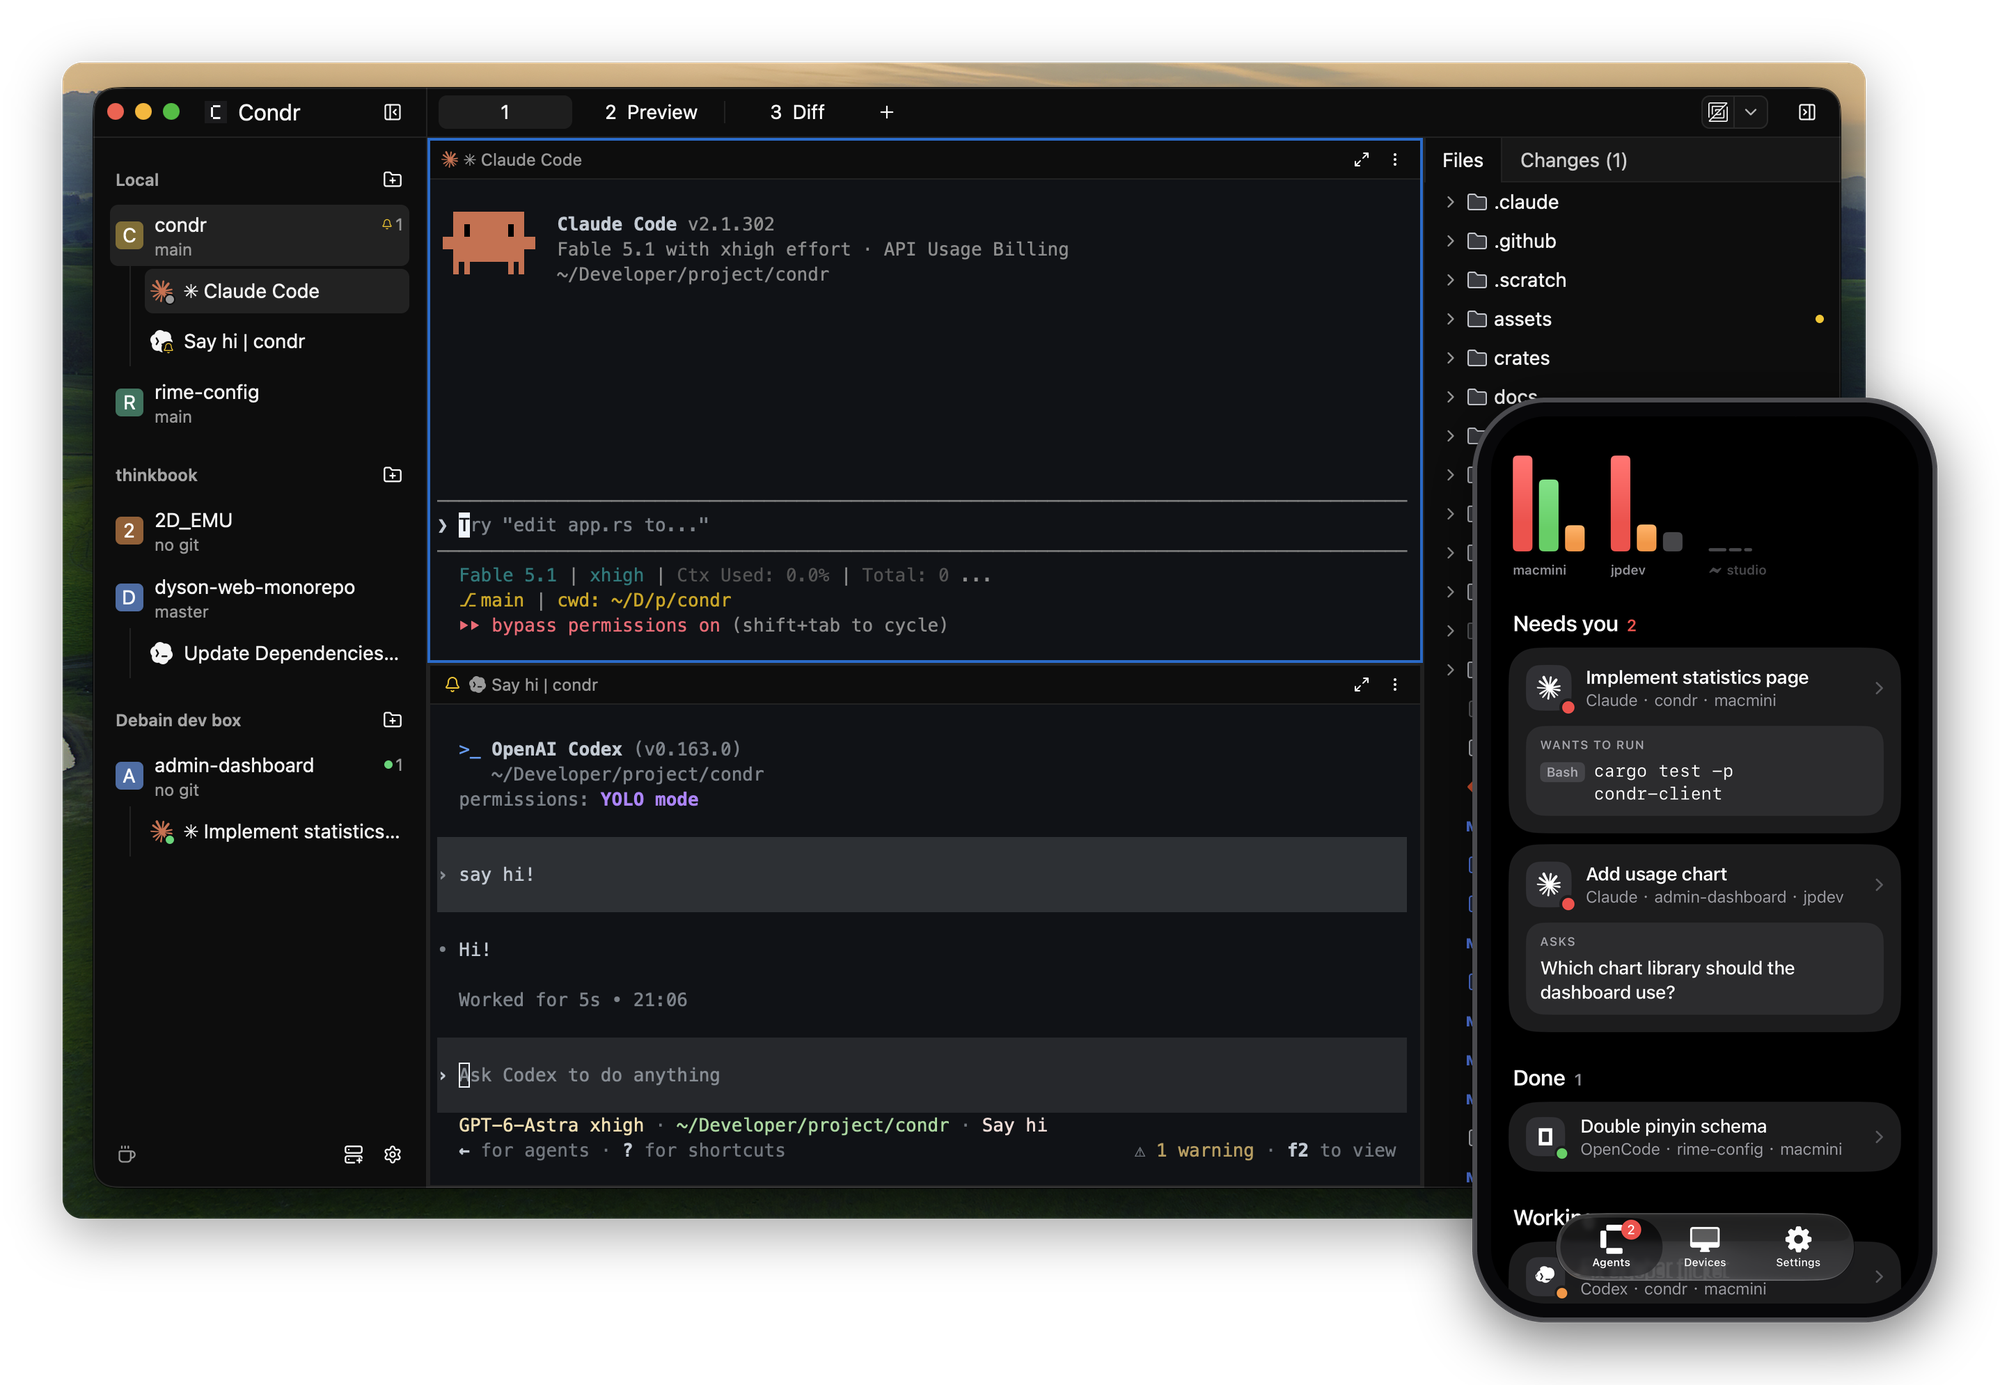
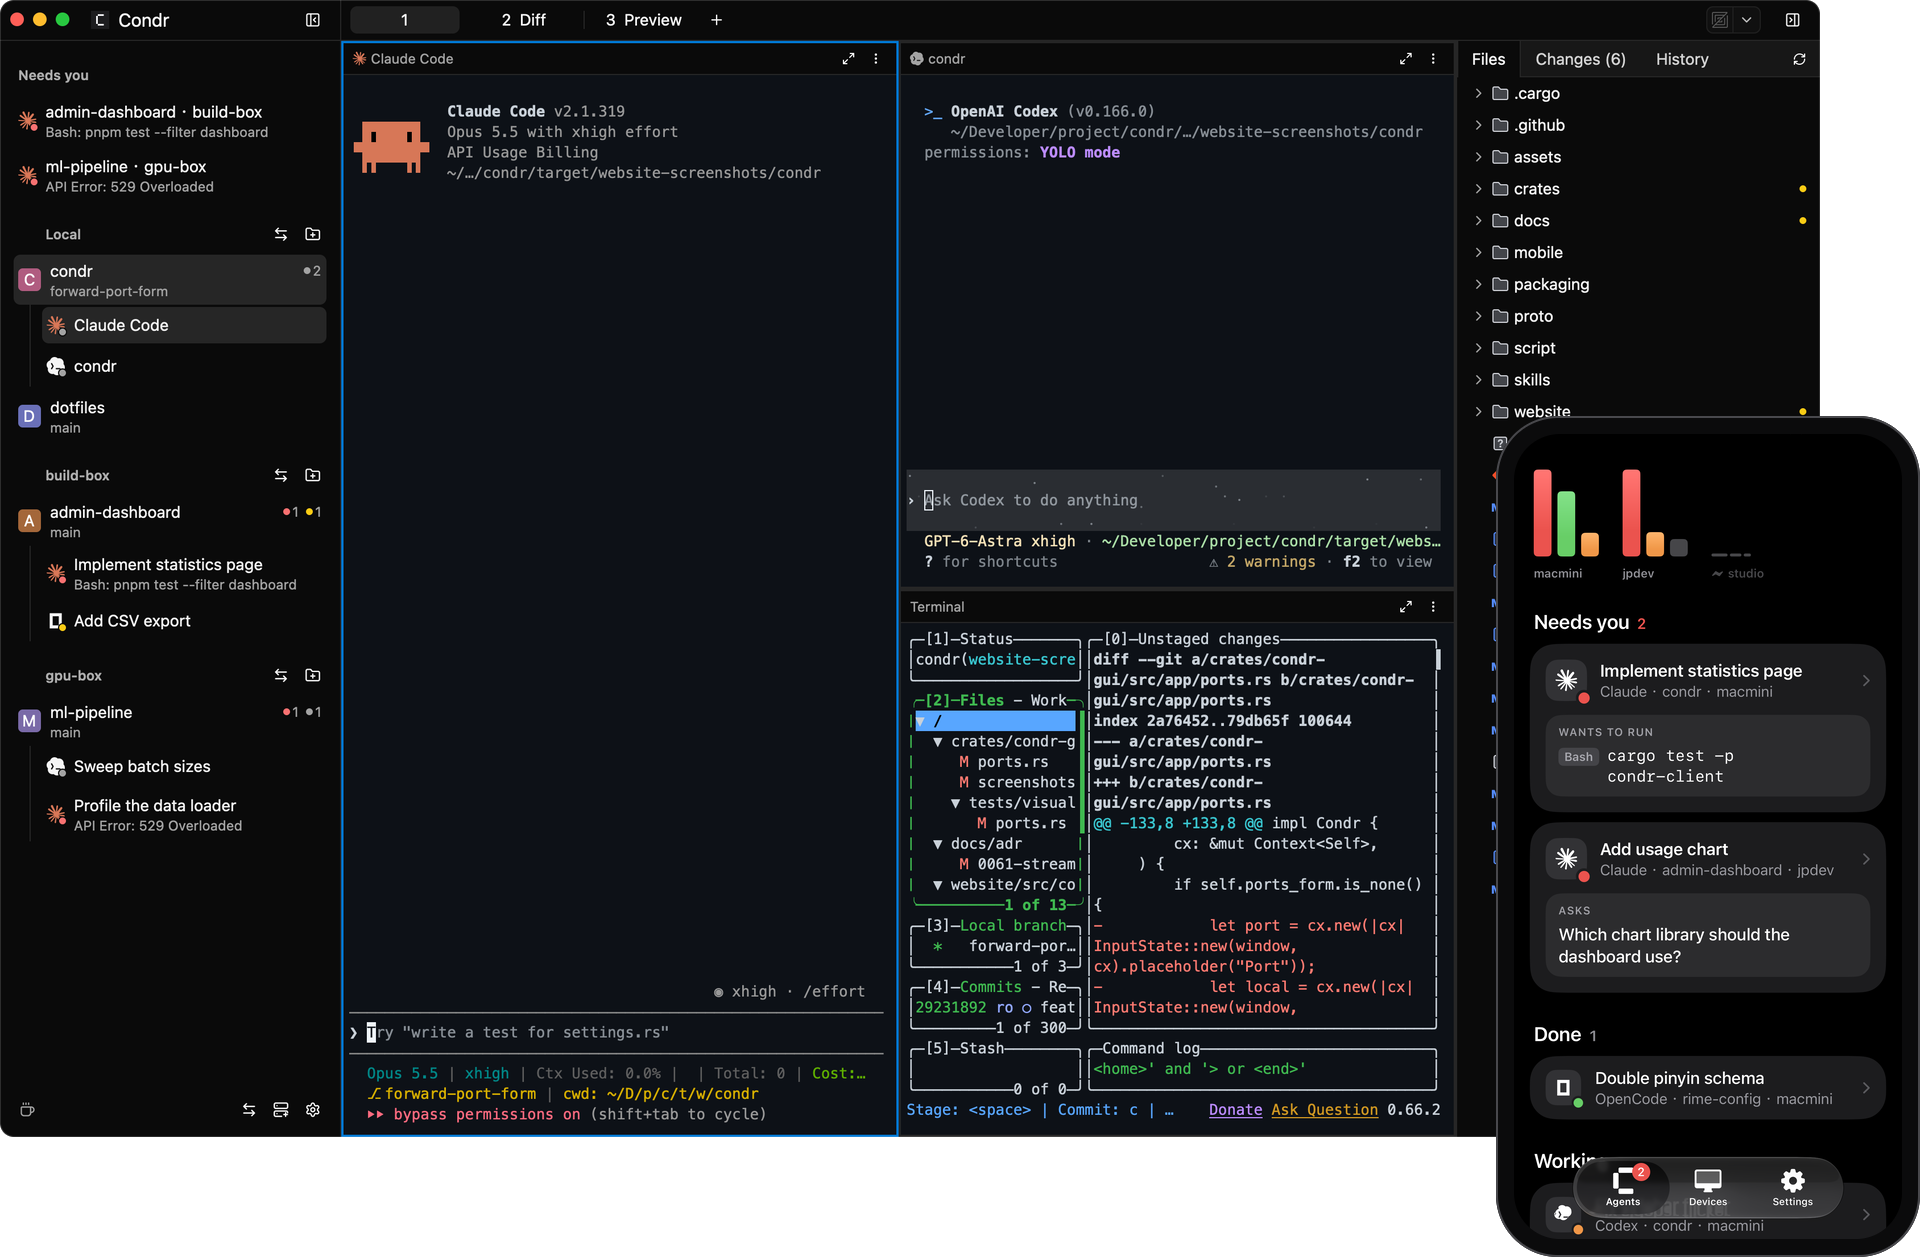
test: the website's screenshots add the hero, in a 1600 by 1000 window of its own, and the README's picture with the Companion in front of it
The offscreen window cannot be resized without AppKit's run loop, and a
Server sizes a terminal for one client, so the hero opens once the
1280 by 800 window is gone. macOS's window buttons are painted where
Kit's title bar leaves room for them. Needs you is cropped to the end of
build-box.

diff --git a/crates/condr-gui/src/app/screenshots/website.rs b/crates/condr-gui/src/app/screenshots/website.rs
@@ -9,7 +9,9 @@
 //! Claude Code, Codex and lazygit run in its Panes, so all three must be installed and the
 //! first two must trust this repository. Two more Servers on loopback stand in for remote
 //! Devices; the Agents listed on them and the transfers in flight are staged. Each picture
-//! is a crop of the 1280 by 800 window, at the display's scale.
+//! is a crop of the 1280 by 800 window, at the display's scale. The hero is the whole window
+//! grown to 1600 by 1000, with the buttons macOS would draw painted in; the README's picture
+//! puts the Companion's `phone-agents.png` in front of it.
 
 use super::super::changes::SidebarView;
 use super::super::history::DiffCommit;
@@ -26,6 +28,8 @@ use std::process::Command;
 
 /// The left sidebar's width, wide enough for an Agent's task and what it waits for.
 const SIDEBAR: f32 = 300.;
+/// The hero's window, in points.
+const HERO: (f32, f32) = (1600., 1000.);
 
 /// The commit whose change the worktree holds uncommitted: a small one to the Ports page.
 const DEMO: &str = "bd89134";
@@ -78,7 +82,7 @@ pub(crate) fn run(directory: PathBuf) {
 
     // This machine: the worktree, with three programs side by side in its first Tab.
     let mut admin = local.admin();
-    let (condr, claude, _) = workspace(&mut admin, &worktree);
+    let (condr, claude, condr_tab) = workspace(&mut admin, &worktree);
     let codex = split(&mut admin, claude, SplitDirection::Horizontal);
     let lazygit = split(&mut admin, codex, SplitDirection::Vertical);
     // Run from inside Claude Code, the Panes inherit its session, which Claude Code there
@@ -144,57 +148,8 @@ pub(crate) fn run(directory: PathBuf) {
         ),
     ];
 
-    let mut config = config::LoadedConfig::read(None);
-    config.appearance = Appearance::Dark;
-    let initial = ClientConnection::connect(&local.endpoint, "condr-screenshots");
-    let holder: Rc<RefCell<Option<Entity<Condr>>>> = Rc::default();
-    let window = {
-        let holder = Rc::clone(&holder);
-        let endpoint = local.endpoint.clone();
-        cx.open_offscreen_window(size(px(1280.), px(800.)), move |window, cx| {
-            let view = cx.new(|cx| {
-                Condr::new(
-                    endpoint,
-                    Some(initial.map_err(|error| error.to_string())),
-                    config,
-                    gui_state::LoadedState {
-                        state: gui_state::GuiState {
-                            sidebar_width: Some(SIDEBAR),
-                            ..Default::default()
-                        },
-                        ..Default::default()
-                    },
-                    window,
-                    cx,
-                )
-            });
-            holder.borrow_mut().replace(view.clone());
-            cx.new(|cx| Root::new(view, window, cx))
-        })
-        .expect("an offscreen window opens")
-    };
-    let window: AnyWindowHandle = window.into();
-    let view = holder.borrow_mut().take().expect("Condr was built");
-    update(&mut cx, window, &view, |this, _, _| {
-        for (name, server) in [("build-box", &build_box), ("gpu-box", &gpu_box)] {
-            let key = this.next_connection_key;
-            this.next_connection_key += 1;
-            this.connections.push(ServerConnection::new(
-                key,
-                name.into(),
-                server.endpoint.clone(),
-            ));
-            this.start_connect(key);
-        }
-    });
-    wait(&mut cx, "every Device synchronized", |app| {
-        (1..=3).all(|key| {
-            view.read(app)
-                .connection(key)
-                .and_then(ServerConnection::session)
-                .is_some_and(|session| !session.workspaces().is_empty())
-        })
-    });
+    let devices = [&local, &build_box, &gpu_box];
+    let (window, view) = open(&mut cx, (1280., 800.), devices);
     update(&mut cx, window, &view, |this, window, cx| {
         this.select_workspace(1, condr, window, cx)
     });
@@ -204,7 +159,8 @@ pub(crate) fn run(directory: PathBuf) {
 
     stage(&mut cx, window, &view, &staged);
     let image = capture(&mut cx, window);
-    save(&image, &directory, "needs-you", (0., 0., SIDEBAR, 800.));
+    // Down to the end of build-box: Needs you and the Devices it names, not the whole column.
+    save(&image, &directory, "needs-you", (0., 0., SIDEBAR, 578.));
     save(
         &image,
         &directory,
@@ -284,6 +240,7 @@ pub(crate) fn run(directory: PathBuf) {
     });
     let image = capture(&mut cx, window);
     save(&image, &directory, "history", review);
+
     update(&mut cx, window, &view, |this, window, cx| {
         this.toggle_sidebar(window, cx)
     });
@@ -387,6 +344,30 @@ pub(crate) fn run(directory: PathBuf) {
         "transfers",
         (1280. - 320., 36., 320., 764.),
     );
+
+    // The hero: the whole window, larger so the Panes between the sidebars have room. It is a
+    // window of its own, opened once this one is gone: a Server sizes a terminal for one client.
+    let _ = cx.update_window(window, |_, window, _| window.remove_window());
+    let (window, view) = open(&mut cx, HERO, devices);
+    update(&mut cx, window, &view, |this, window, cx| {
+        this.select_workspace(1, condr, window, cx);
+        this.show_view(1, condr, Some(condr_tab));
+        this.toggle_changes_sidebar(cx);
+        this.files_view
+            .sidebar_views
+            .insert((1, condr), SidebarView::Files);
+        this.rebuild_dock(window, cx);
+    });
+    settle(&mut cx);
+    stage(&mut cx, window, &view, &staged);
+    let mut hero = capture(&mut cx, window);
+    let scale = hero.width() as f32 / HERO.0;
+    traffic_lights(&mut hero, scale);
+    save_whole(&hero, &directory, "hero");
+    let phone = image::open(repository.join("assets/screenshots/phone-agents.png"))
+        .expect("the Companion's Agents page is in assets/screenshots")
+        .to_rgba8();
+    save_whole(&with_phone(&hero, &phone), &directory, "hero-with-phone");
 
     let _ = cx.update_window(window, |_, window, _| window.remove_window());
     for server in [local, build_box, gpu_box] {
@@ -541,6 +522,184 @@ fn stage(
             cx.notify();
         });
     }
+}
+
+/// An offscreen window of `(width, height)` points showing Condr connected to this machine's
+/// Server and to the two standing in for remote Devices, once all three are synchronized.
+fn open(
+    cx: &mut VisualTestAppContext,
+    (width, height): (f32, f32),
+    [local, build_box, gpu_box]: [&Running; 3],
+) -> (AnyWindowHandle, Entity<Condr>) {
+    let mut config = config::LoadedConfig::read(None);
+    config.appearance = Appearance::Dark;
+    let initial = ClientConnection::connect(&local.endpoint, "condr-screenshots");
+    let holder: Rc<RefCell<Option<Entity<Condr>>>> = Rc::default();
+    let window = {
+        let holder = Rc::clone(&holder);
+        let endpoint = local.endpoint.clone();
+        cx.open_offscreen_window(size(px(width), px(height)), move |window, cx| {
+            let view = cx.new(|cx| {
+                Condr::new(
+                    endpoint,
+                    Some(initial.map_err(|error| error.to_string())),
+                    config,
+                    gui_state::LoadedState {
+                        state: gui_state::GuiState {
+                            sidebar_width: Some(SIDEBAR),
+                            ..Default::default()
+                        },
+                        ..Default::default()
+                    },
+                    window,
+                    cx,
+                )
+            });
+            holder.borrow_mut().replace(view.clone());
+            cx.new(|cx| Root::new(view, window, cx))
+        })
+        .expect("an offscreen window opens")
+    };
+    let window: AnyWindowHandle = window.into();
+    let view = holder.borrow_mut().take().expect("Condr was built");
+    update(cx, window, &view, |this, _, _| {
+        for (name, server) in [("build-box", build_box), ("gpu-box", gpu_box)] {
+            let key = this.next_connection_key;
+            this.next_connection_key += 1;
+            this.connections.push(ServerConnection::new(
+                key,
+                name.into(),
+                server.endpoint.clone(),
+            ));
+            this.start_connect(key);
+        }
+    });
+    wait(cx, "every Device synchronized", |app| {
+        (1..=3).all(|key| {
+            view.read(app)
+                .connection(key)
+                .and_then(ServerConnection::session)
+                .is_some_and(|session| !session.workspaces().is_empty())
+        })
+    });
+    (window, view)
+}
+
+/// Gives the programs in the Panes time to redraw at the size the window gave them.
+fn settle(cx: &mut VisualTestAppContext) {
+    let until = Instant::now() + Duration::from_millis(1500);
+    while Instant::now() < until {
+        cx.run_until_parked();
+        std::thread::sleep(Duration::from_millis(50));
+    }
+}
+
+/// macOS draws a window's close, minimize and zoom buttons itself, so an offscreen window has
+/// none. Paints them where Kit's title bar leaves room for them: 12 points across, 20 apart,
+/// centred on its 34-point height. `scale` is pixels per point.
+fn traffic_lights(image: &mut RgbaImage, scale: f32) {
+    let radius = 6. * scale;
+    for (i, color) in [[255., 95., 87.], [254., 188., 46.], [40., 200., 64.]]
+        .into_iter()
+        .enumerate()
+    {
+        let (cx, cy) = ((15. + 20. * i as f32) * scale, 17. * scale);
+        for y in (cy - radius - 1.) as u32..=(cy + radius + 1.) as u32 {
+            for x in (cx - radius - 1.) as u32..=(cx + radius + 1.) as u32 {
+                let distance = (x as f32 + 0.5 - cx).hypot(y as f32 + 0.5 - cy);
+                // Coverage of the pixel by the disc, for an antialiased edge.
+                let cover = (radius + 0.5 - distance).clamp(0., 1.);
+                let pixel = image.get_pixel_mut(x, y);
+                for c in 0..3 {
+                    pixel[c] =
+                        (f32::from(pixel[c]) * (1. - cover) + color[c] * cover).round() as u8;
+                }
+            }
+        }
+    }
+}
+
+/// The README's picture: the hero window, 1820 pixels across, with the Companion on a phone
+/// standing in front of its lower right corner, on transparency.
+fn with_phone(hero: &RgbaImage, phone: &RgbaImage) -> RgbaImage {
+    use image::imageops::{FilterType, resize};
+    let (width, height) = (1820, 1820 * hero.height() / hero.width());
+    let window = resize(hero, width, height, FilterType::Lanczos3);
+    // The phone three quarters of the window's height; its screen keeps the screenshot's shape.
+    let bezel = 18.;
+    let screen_height = (0.74 * height as f32 - 2. * bezel).round();
+    let screen_width = (screen_height * phone.width() as f32 / phone.height() as f32).round();
+    let screen = resize(
+        phone,
+        screen_width as u32,
+        screen_height as u32,
+        FilterType::Lanczos3,
+    );
+    let mut out = RgbaImage::new(width + 100, height + 120);
+    let body = (
+        out.width() as f32 - screen_width - 2. * bezel,
+        out.height() as f32 - screen_height - 2. * bezel,
+        screen_width + 2. * bezel,
+        screen_height + 2. * bezel,
+    );
+    let glass = (body.0 + bezel, body.1 + bezel, screen_width, screen_height);
+    let frame = (0., 0., width as f32, height as f32);
+    for (x, y, pixel) in out.enumerate_pixels_mut() {
+        let (px, py) = (x as f32 + 0.5, y as f32 + 0.5);
+        let mut color = [0.; 4];
+        let shown = covered(px, py, frame, 14.);
+        if let Some(p) = window.get_pixel_checked(x, y) {
+            over(&mut color, p, shown);
+        }
+        // A hairline round the window, as macOS draws one on a dark window.
+        let rim = shown - covered(px, py, inset(frame, 1.), 13.);
+        over(&mut color, &image::Rgba([255, 255, 255, 36]), rim);
+        let case = covered(px, py, body, 62.);
+        over(&mut color, &image::Rgba([11, 11, 12, 255]), case);
+        let edge = case - covered(px, py, inset(body, 2.), 60.);
+        over(&mut color, &image::Rgba([72, 72, 76, 255]), edge);
+        let lit = covered(px, py, glass, 46.);
+        if let Some(p) =
+            screen.get_pixel_checked((px - glass.0).max(0.) as u32, (py - glass.1).max(0.) as u32)
+        {
+            over(&mut color, p, lit);
+        }
+        *pixel = image::Rgba(color.map(|channel| channel.round() as u8));
+    }
+    out
+}
+
+/// How much of the pixel centred at `(px, py)` the rounded rectangle `(x, y, width, height)`
+/// with corner `radius` covers, from its signed distance, for an antialiased edge.
+fn covered(px: f32, py: f32, (x, y, width, height): (f32, f32, f32, f32), radius: f32) -> f32 {
+    let dx = (px - x - width / 2.).abs() - (width / 2. - radius);
+    let dy = (py - y - height / 2.).abs() - (height / 2. - radius);
+    let distance = dx.max(0.).hypot(dy.max(0.)) + dx.max(dy).min(0.) - radius;
+    (0.5 - distance).clamp(0., 1.)
+}
+
+fn inset((x, y, width, height): (f32, f32, f32, f32), by: f32) -> (f32, f32, f32, f32) {
+    (x + by, y + by, width - 2. * by, height - 2. * by)
+}
+
+/// Lays `source`, `cover` of it, over the straight-alpha `color`.
+fn over(color: &mut [f32; 4], source: &image::Rgba<u8>, cover: f32) {
+    let alpha = cover * f32::from(source[3]) / 255.;
+    if alpha <= 0. {
+        return;
+    }
+    let below = color[3] / 255. * (1. - alpha);
+    let total = alpha + below;
+    for c in 0..3 {
+        color[c] = (f32::from(source[c]) * alpha + color[c] * below) / total;
+    }
+    color[3] = total * 255.;
+}
+
+fn save_whole(image: &RgbaImage, directory: &Path, name: &str) {
+    let path = directory.join(format!("{name}.png"));
+    image.save(&path).expect("the screenshot is written");
+    eprintln!("{}", path.display());
 }
 
 /// Saves the part of the window at `(x, y, width, height)`, in the window's points.
